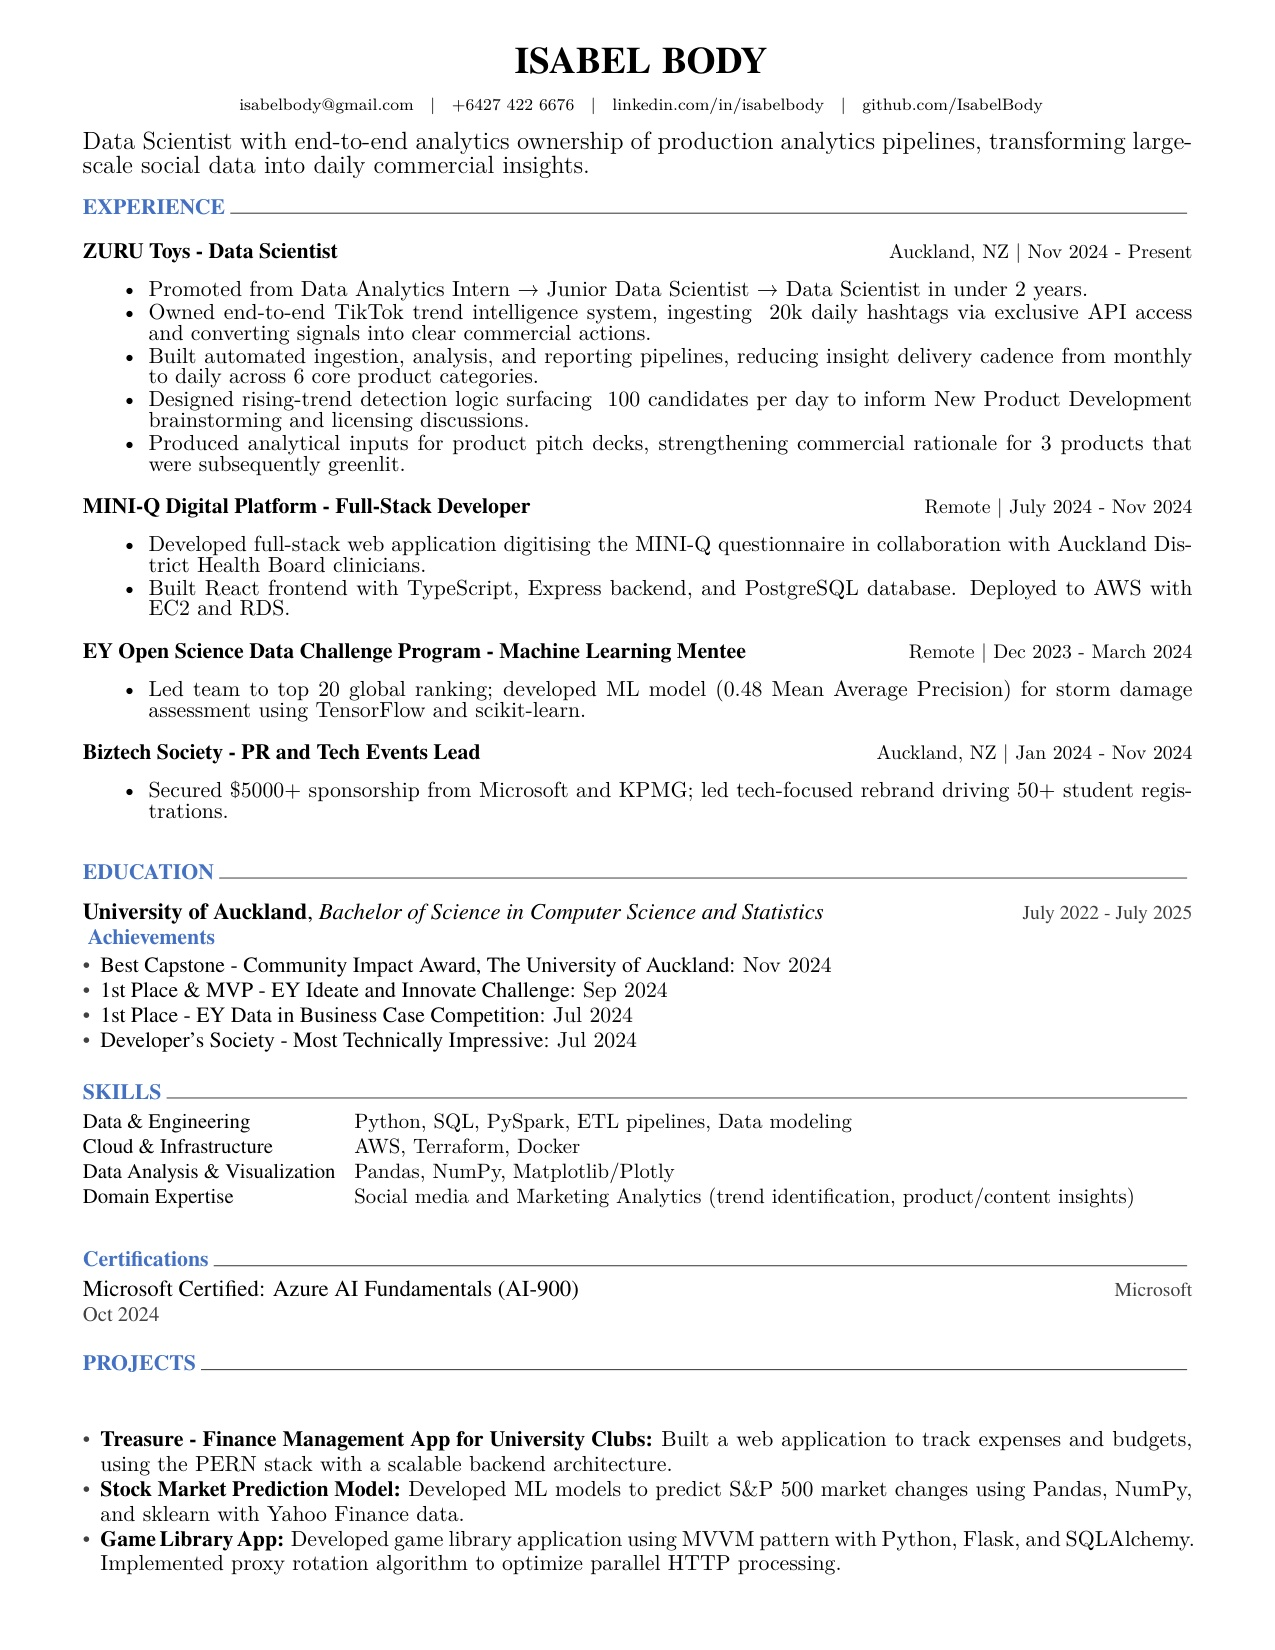
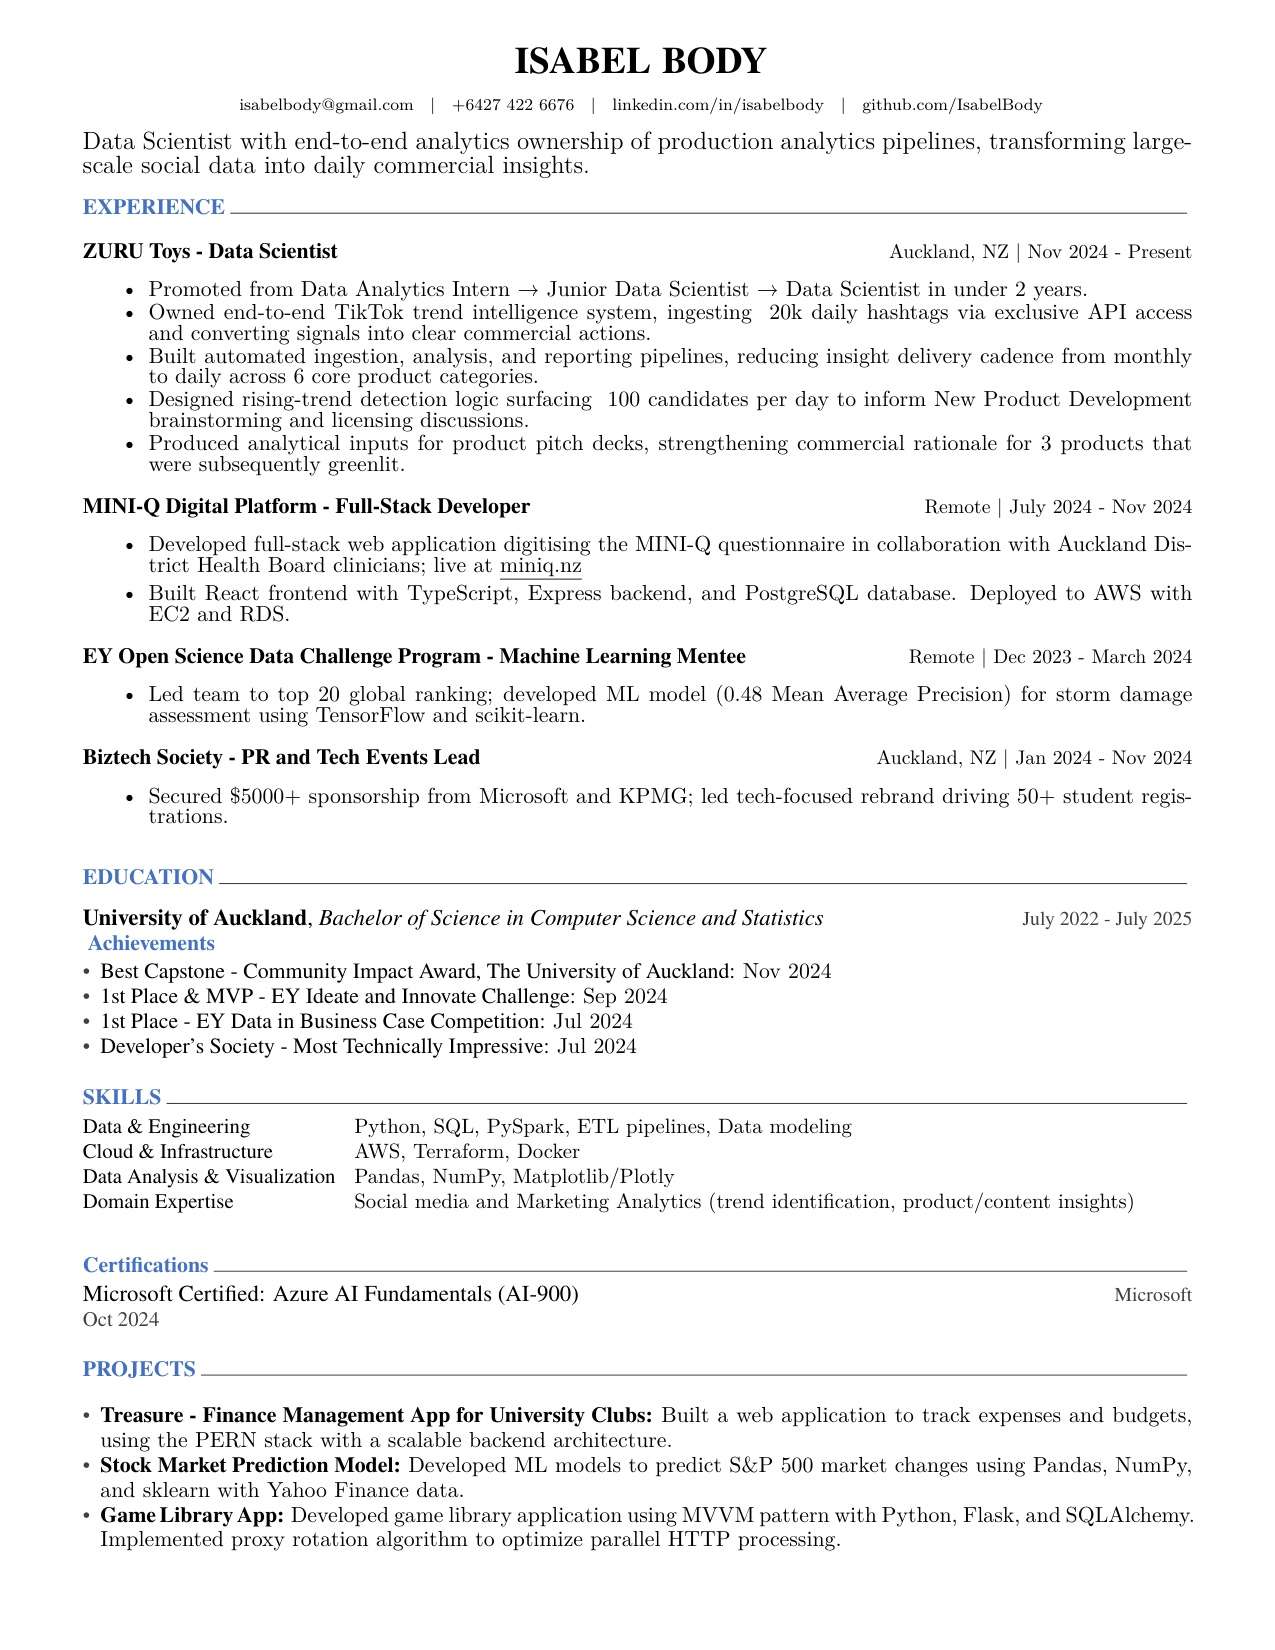
FIX: fixed formatting issue with projects section

Changed region(s): [[0.0612, 0.34, 0.9482, 0.9582], [0.7953, 0.5255, 0.9176, 0.5564], [0.8871, 0.7727, 0.9176, 0.8036]]

diff --git a/cv/projects.tex b/cv/projects.tex
@@ -6,9 +6,7 @@
 %-------------------------------------------------------------------------------
 %	CONTENT
 %-------------------------------------------------------------------------------
-\begin{cventries2}
-  \vspace{5mm}
-  \vspace{-4.5mm}
+\vspace{-3mm}
 \resumeSubHeadingListStart
   \item{%
     {\fontsize{10.5pt}{1em}\bodyfont\bfseries\color{black} Treasure - Finance Management App for University Clubs: }%
@@ -23,4 +21,3 @@
     \descriptionstyle{Developed game library application using MVVM pattern with Python, Flask, and SQLAlchemy. Implemented proxy rotation algorithm to optimize parallel HTTP processing. \vspace{-2pt}}%
   }\vspace{-4pt}
 \resumeSubHeadingListEnd
-\end{cventries2}

diff --git a/cv/experience.tex b/cv/experience.tex
@@ -27,7 +27,7 @@
     {Remote | July 2024 - Nov 2024} % Date(s)
     {
       \begin{cvitems} % Description(s) of tasks/responsibilities
-        \item {Developed full-stack web application digitising the MINI-Q questionnaire in collaboration with Auckland District Health Board clinicians.}
+        \item {Developed full-stack web application digitising the MINI-Q questionnaire in collaboration with Auckland District Health Board clinicians; live at \href{https://miniq.nz}{\textcolor{black}{\underline{miniq.nz}}}}
         \item {Built React frontend with TypeScript, Express backend, and PostgreSQL database. Deployed to AWS with EC2 and RDS.}
       \end{cvitems}
     }
